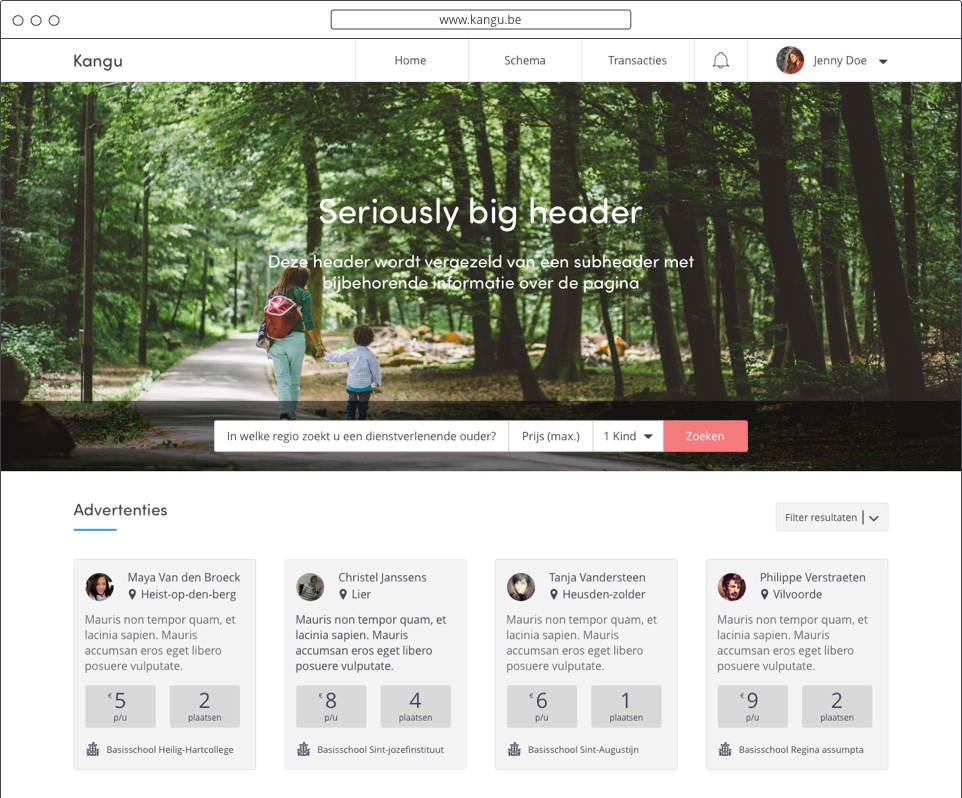
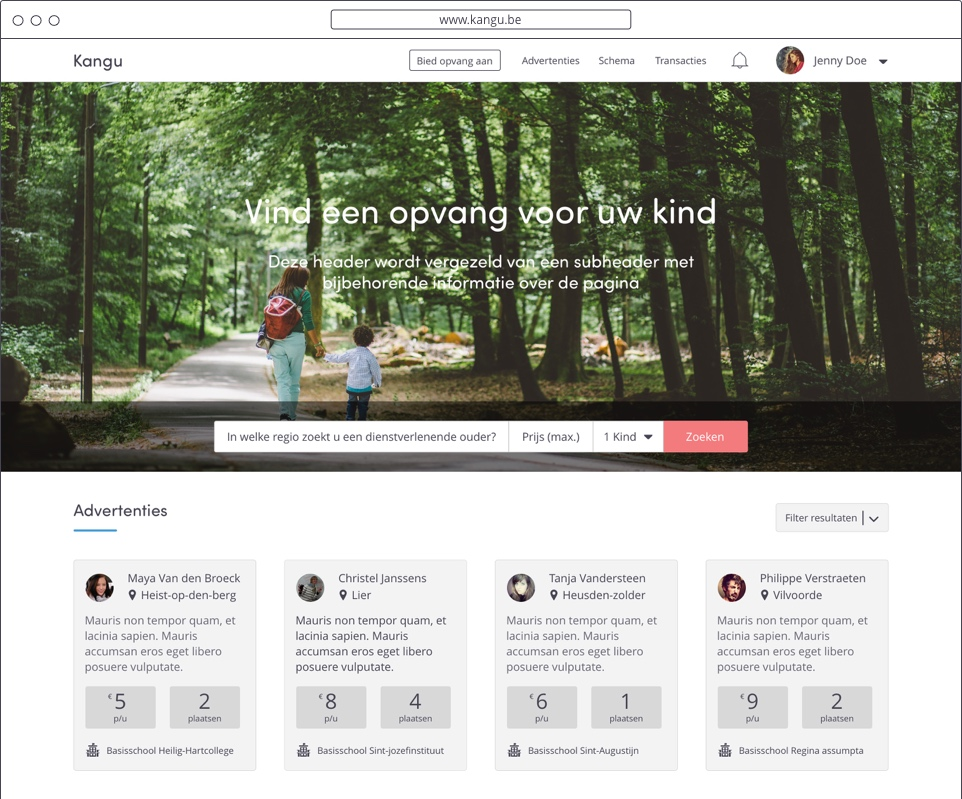
Assets update
- Updated the adverts preview assets
- Made small chanes to the copy in the index file

Changed region(s): [[0.2495, 0.2406, 0.7484, 0.3609], [0.4054, 0.0602, 0.5925, 0.0902], [0.6237, 0.0602, 0.7796, 0.0902]]

diff --git a/public/index.php b/public/index.php
@@ -94,7 +94,7 @@
             </div>
 
             <div class="large-10 large-centered columns">
-                <p class="subline-dark-grey">Jonge ouders beschikken regelmatig over onvoldoende tijd om hun kinderen op te halen aan de schoolpoort, hierdoor is het moeilijk om een geschikte opvang te voorzien</p>
+                <p class="subline-dark-grey">Jonge ouders beschikken regelmatig over onvoldoende tijd om hun kinderen op te halen aan de schoolpoort en hebben vaak moeilijkheden om een geschikte opvang te voorzien</p>
             </div>
 
             <div class="small-12 medium-12 large-12 small-centered columns" data-equalizer="oplossingen">
